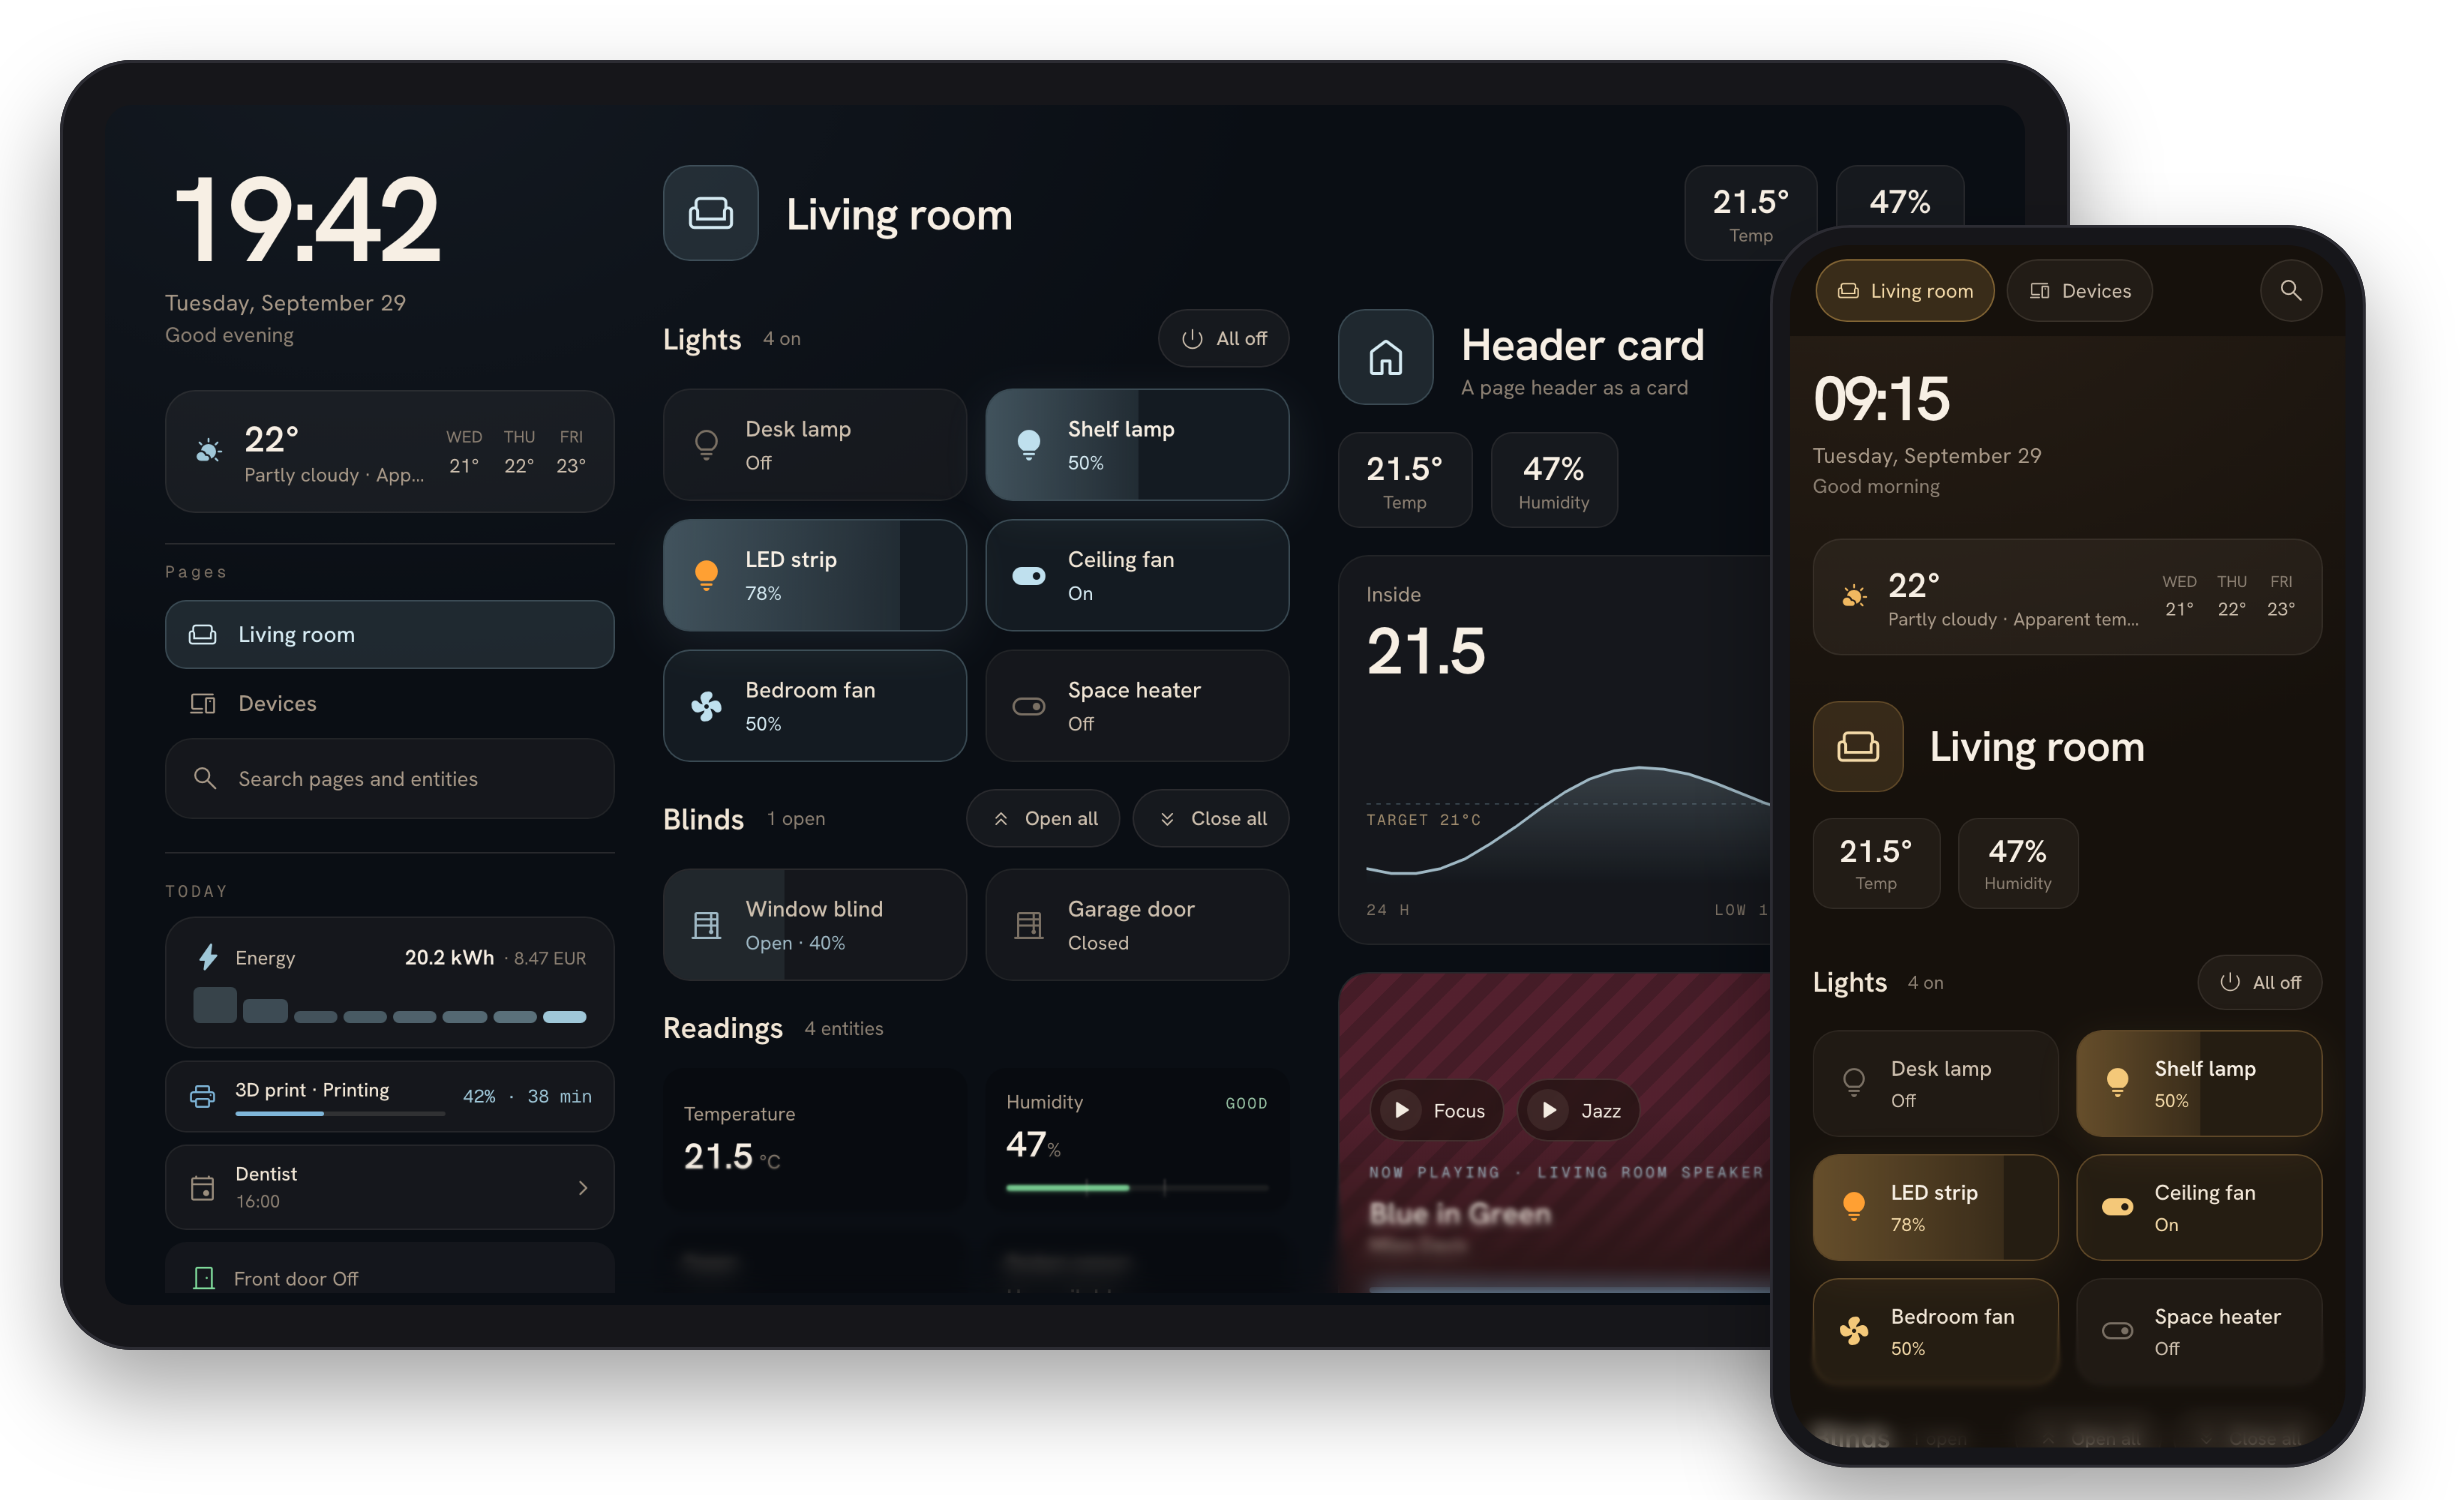
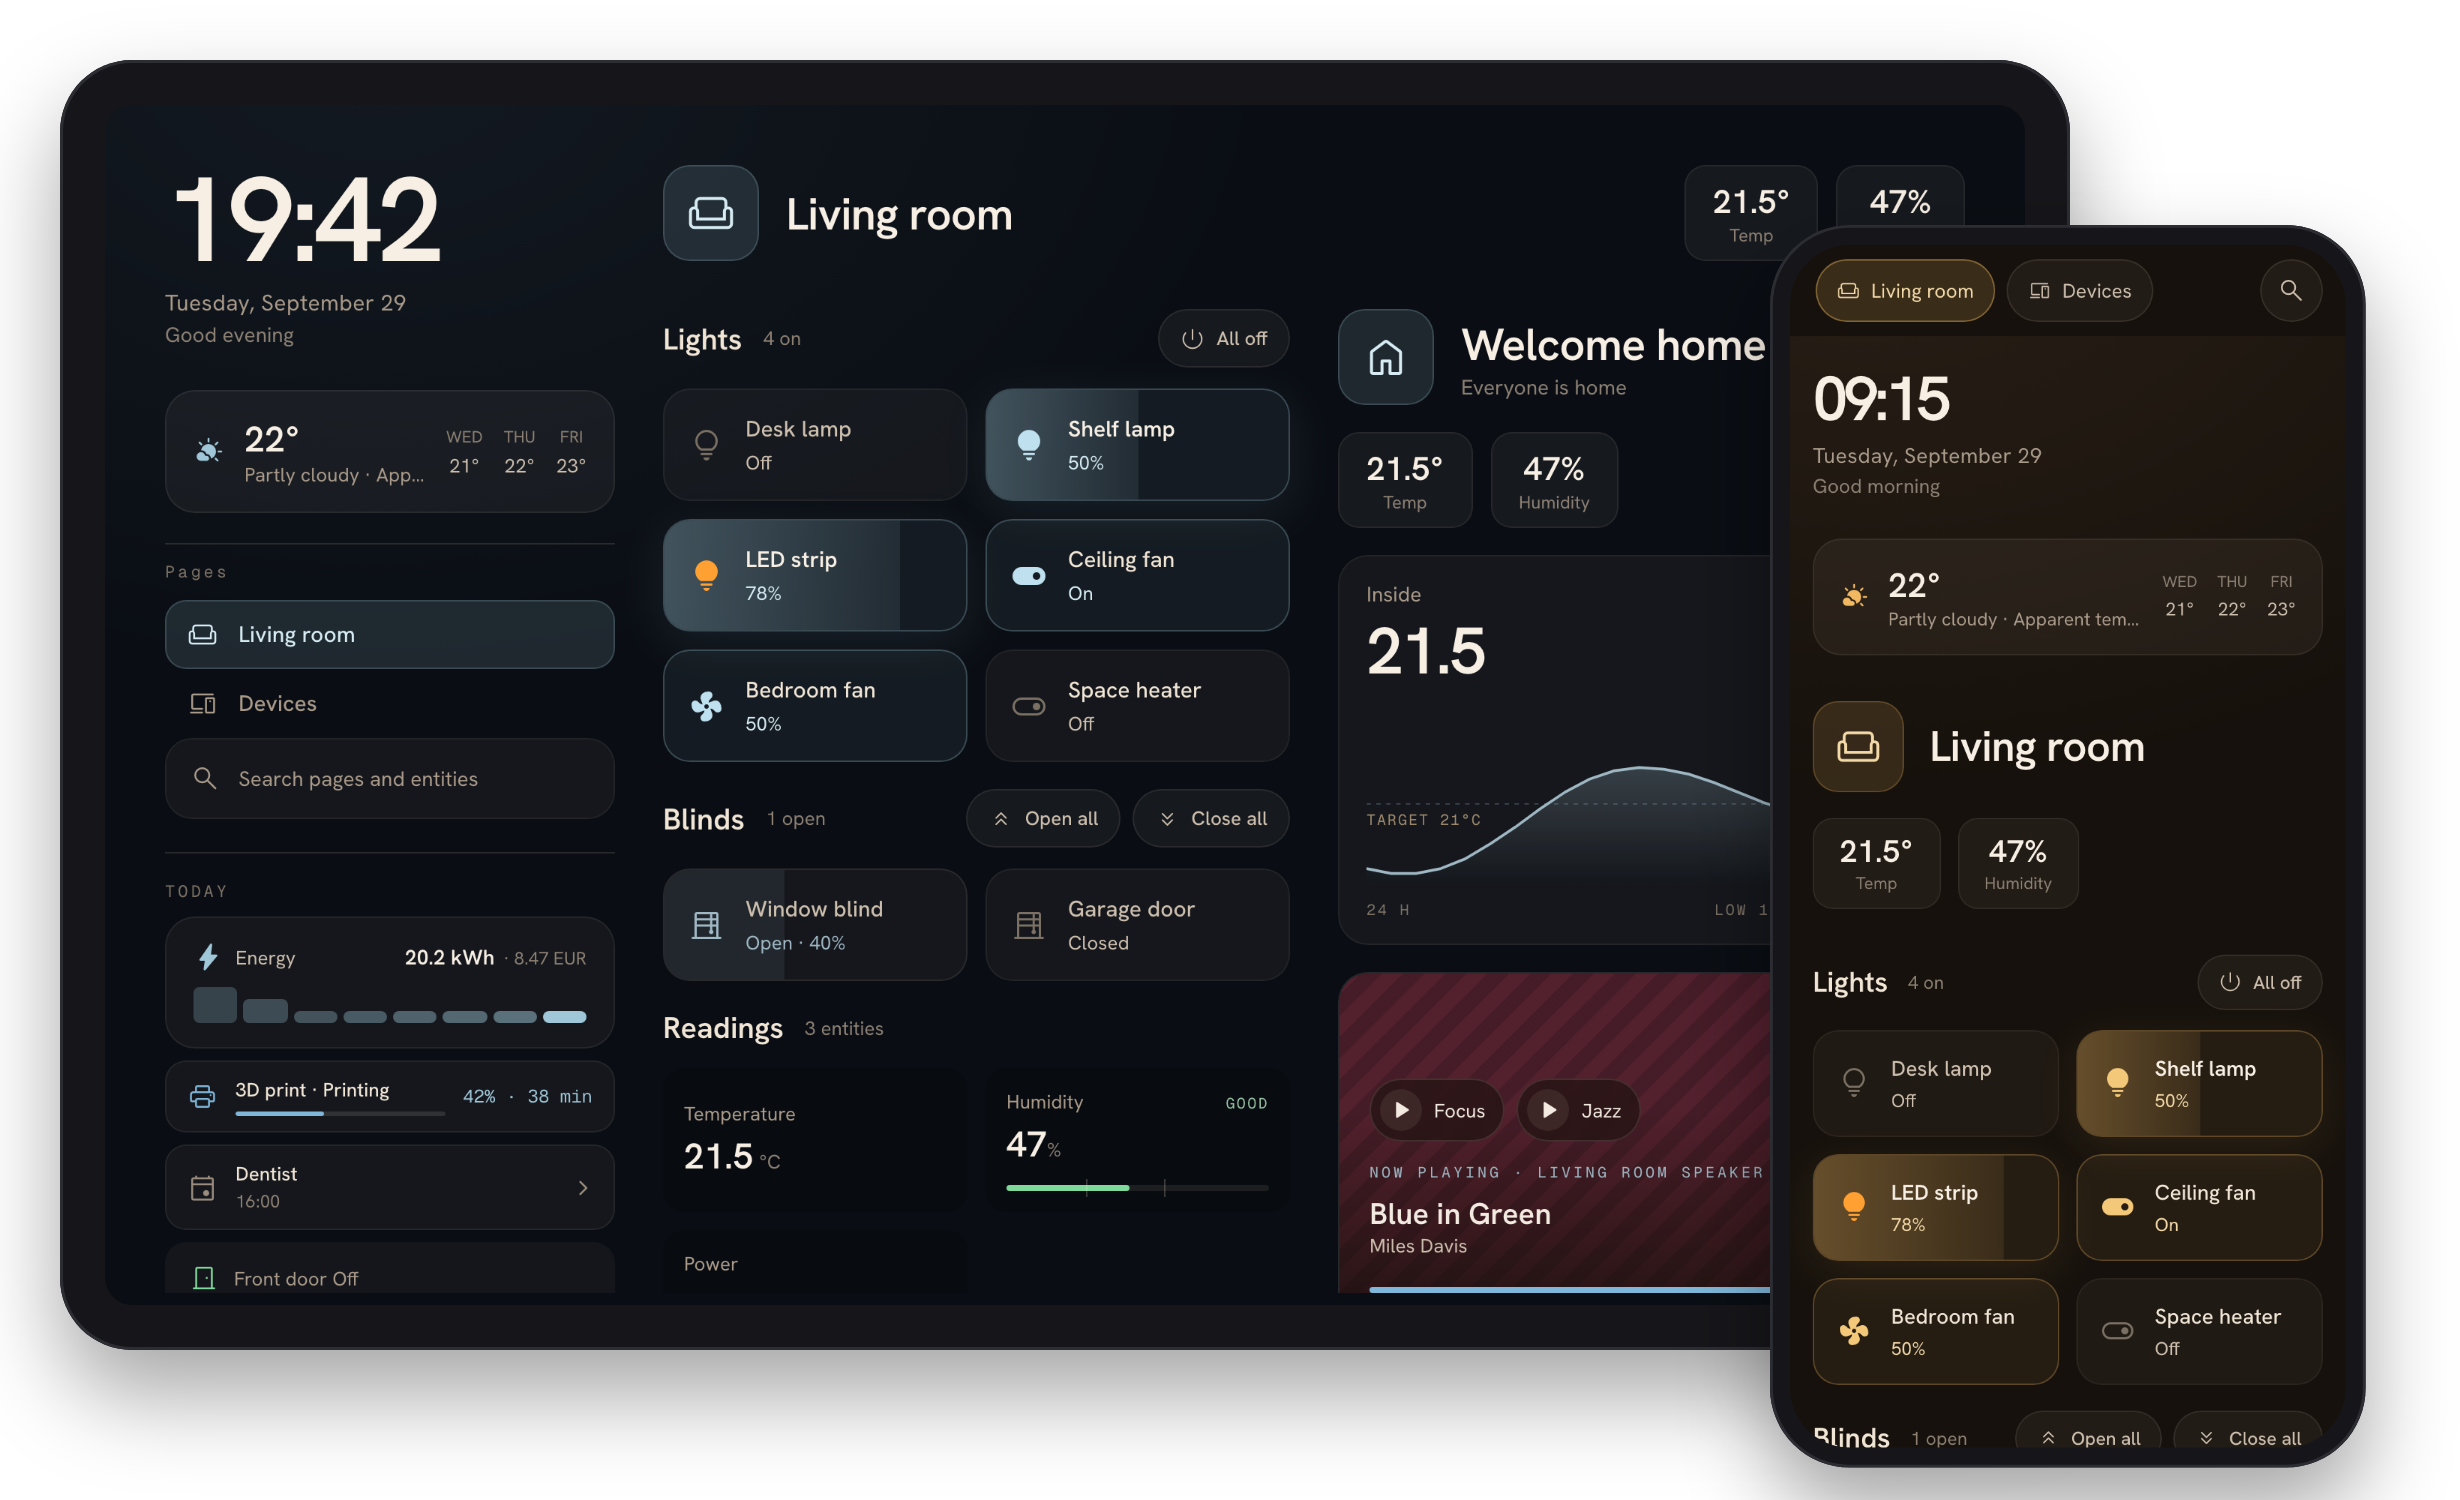
docs: make the device image the only README screenshot and render it without scroll blur

diff --git a/playwright.readme.config.ts b/playwright.readme.config.ts
@@ -1,12 +1,44 @@
+import {
+	cpSync,
+	existsSync,
+	mkdirSync,
+	readFileSync,
+	rmSync,
+	symlinkSync,
+	writeFileSync
+} from 'node:fs';
 import { defineConfig } from '@playwright/test';
 import matrix from './playwright.matrix.config';
 
 /*
- * Renders the README device image from the matrix fixture. Run `pnpm build`
- * first, then `pnpm readme:image`; writes docs/images/devices.png.
+ * Renders the README device image. Run `pnpm build` first, then
+ * `pnpm readme:image`; writes docs/images/devices.png.
+ *
+ * The server runs on a copy of the matrix fixture with the changes the image
+ * needs, so the matrix itself keeps covering the defaults.
  */
+const FIXTURE = 'matrix-output/readme-fixture';
+
+// workers load this file too; only the main process prepares the fixture the server already reads
+if (process.env.TEST_WORKER_INDEX === undefined) {
+	rmSync(FIXTURE, { recursive: true, force: true });
+	mkdirSync(FIXTURE, { recursive: true });
+	cpSync('e2e/fixture-matrix/data', `${FIXTURE}/data`, { recursive: true });
+	if (!existsSync(`${FIXTURE}/build`)) symlinkSync('../../build', `${FIXTURE}/build`);
+
+	const hearth = readFileSync(`${FIXTURE}/data/hearth.yaml`, 'utf8')
+		.replace('    type: clock\n', "    type: clock\n    hour_format: '24'\n")
+		.replace('title: Header card', 'title: Welcome home')
+		.replace('subtitle: A page header as a card', 'subtitle: Everyone is home')
+		.replace('            - entity: sensor.broken\n', '');
+	writeFileSync(`${FIXTURE}/data/hearth.yaml`, `${hearth}scroll_edge_blur: false\n`);
+}
+
+const [fakeHass, app] = matrix.webServer as NonNullable<typeof matrix.webServer>[];
+
 export default defineConfig({
 	...matrix,
 	testDir: './e2e/readme',
-	outputDir: './matrix-output/.playwright-readme'
+	outputDir: './matrix-output/.playwright-readme',
+	webServer: [fakeHass, { ...app, cwd: FIXTURE }]
 });

diff --git a/README.md b/README.md
@@ -1,3 +1,5 @@
+<img src="static/hearth.svg" width="72" alt="Hearth logo">
+
 # Hearth
 
 Hearth is a Home Assistant dashboard for wall tablets, phones and desktops. It shows your rooms, devices and daily information in a layout you arrange with a visual editor. A day and a night theme switch with an entity such as `sun.sun`.
@@ -6,7 +8,7 @@ I built Hearth for the tablet on my wall.
 
 Hearth is pre-1.0. The configuration format and features can still change between minor releases; breaking changes are listed in the [changelog](CHANGELOG.md).
 
-![Hearth dashboard on a wall tablet](preview.jpg)
+![Hearth on a tablet at night and on a phone by day](docs/images/devices.png)
 
 ## Features
 
@@ -20,14 +22,6 @@ Hearth is pre-1.0. The configuration format and features can still change betwee
 - Alerts from dashboard rules or Home Assistant automations, shown as popups and in the notifications widget.
 - Sleep screen with a clock, the current weather and an image or live weather radar map behind it.
 - Search across pages and entities, and a detail sheet with state, attributes and history for any entity.
-
-![Hearth on a tablet at night and on a phone by day](docs/images/devices.png)
-
-<p>
-  <img src="docs/images/editor.png" width="32%" alt="Edit mode">
-  <img src="docs/images/light-popup.png" width="32%" alt="Light popup">
-  <img src="docs/images/themes.png" width="32%" alt="Theme settings">
-</p>
 
 ## Not supported yet
 
